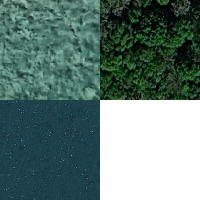
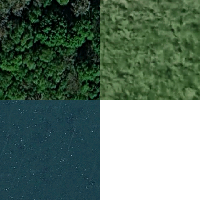
gaan we even updaten jahoor

diff --git a/WorldTiles.cs b/WorldTiles.cs
@@ -2,41 +2,60 @@ using Godot;
 using System;
 using System.Collections.Generic;
 
+public enum WorldTileType
+{
+    Forest,
+    Grass,
+    Water
+}
+
 public static class WorldTileAtlasCoords
 {
-	///
+    //
 	/// THIS CODE IS INTENTIONALLY CURSED IN ITS LAYOUT
 	/// it's a visual representation of how the atlas is ingedeeld.
 	/// 
-	public static readonly Vector2I Grass = new(0, 0);  public static readonly Vector2I Forest = new(1, 0);
-	public static readonly Vector2I Water = new(0, 1);
+    public static readonly Dictionary<WorldTileType, Vector2I> Coordinates = new()
+    {
+        { WorldTileType.Forest, new(0, 0) },         { WorldTileType.Grass,  new(1, 0) },
+        { WorldTileType.Water,  new(0, 1) }
+    };
+}
 
-	public static readonly List<Vector2I> List = new() {
-		Grass, 
-		Forest,
-		Water
-	};
+public class WorldTile {
+    public int XPos;
+    public int YPos;
+    public WorldTileType Type;
+
+    public float GetJoekelSpeedMultiplier() {
+        switch (this.Type) {
+            case Grass:
+                return 1;
+            case 
+
+        }
+    }
 }
 
 public partial class WorldTiles : TileMapLayer
 {
-	public const int WORLD_SIZE_X = 1000;
-	public const int WORLD_SIZE_Y = 1000;
+	public const int WORLD_SIZE_X = 100;
+	public const int WORLD_SIZE_Y = 100;
 
 	private const int TILE_ATLAS_TILE_SET_SOURCE_ID = 0;
-	private readonly FastNoiseLite _perlinNoiseSource = InitPerlinNoise();
+	private readonly FastNoiseLite _noiseSource = initNoiseSource();
 
+    public static Vector2 GetTileAt(Vector2 pos)
 
 	public override void _Ready()
 	{
 		for (int y = 0; y < WORLD_SIZE_Y; y++) {
 			for (int x = 0; x < WORLD_SIZE_X; x++) {
 				// get atlas coordinates based on Perlin Noise value at this tile.
-				float noise = _perlinNoiseSource.GetNoise2D(x, y);
-				float noiseNormal = (noise + 1f) / 2f;
-				int perlI = (int) (noiseNormal * (WorldTileAtlasCoords.List.Count));
-				GD.Print("noisNorm", noiseNormal, "perli is ", perlI);
-				var atlasCoords = WorldTileAtlasCoords.List[perlI];
+				float noise       = _noiseSource.GetNoise2D(x, y); /* [-1,1] */
+				float noiseNormal = (noise + 1f) / 2f;                   /* [ 0,1] */
+				int noiseI = (int) (noiseNormal * (WorldTileAtlasCoords.List.Count));
+				var atlasCoords = WorldTileAtlasCoords.Coordinates[noiseI];
 
 				this.SetCell(
 					new Vector2I(x, y),  // Grid position
@@ -46,13 +65,13 @@ public partial class WorldTiles : TileMapLayer
 				);
 			}
 		}
-	}
+	} 
 
-	private static FastNoiseLite InitPerlinNoise() {
+	private static FastNoiseLite initNoiseSource() {
 		var n = new FastNoiseLite();
 
-		n.NoiseType = FastNoiseLite.NoiseTypeEnum.Perlin;
-		n.Frequency = 0.1f;
+		n.NoiseType = FastNoiseLite.NoiseTypeEnum.SimplexSmooth;
+		n.Frequency = 0.05f;
 		n.Seed = (int)GD.Randi();
 
 		return n;

diff --git a/Joekel.cs b/Joekel.cs
@@ -12,6 +12,7 @@ public partial class Joekel : CharacterBody2D
 	private float _heading;
 	private float _kachow;
 	private float _hunger;
+	private float _zwem;
 	private float _turnJitter;
 	
 	public Dna Dna;
@@ -34,7 +35,7 @@ public partial class Joekel : CharacterBody2D
 		float dt = (float)delta;
 		_heading += (float)GD.RandRange(-_turnJitter, _turnJitter) * dt;
 
-		Velocity = Vector2.FromAngle(_heading) * _kachow * (HungerMax + HungerMin - _hunger) / HungerMax;
+		Velocity = GetVelocityVector();
 		MoveAndSlide();
 
 		for (int i = 0; i < GetSlideCollisionCount(); i++)
@@ -67,6 +68,14 @@ public partial class Joekel : CharacterBody2D
 		DrawCircle(Vector2.Zero, 10, _kleuren_bandjes[0]);
 		DrawCircle(Vector2.Zero, 7, _kleuren_bandjes[1]);
 		DrawCircle(Vector2.Zero, 4, _kleuren_bandjes[2]);
+	}
+
+	private Vector2 GetVelocityVector() {
+		var result = Vector2.FromAngle(_heading) 				// unit vector 
+		result *= _kachow 										// joekel speed multiplier
+		result *= (HungerMax + HungerMin - _hunger) / HungerMax // hunger discount
+		result *= WorldTiles.GetTileAt(this.GlobalPosition);  // discount from the tile the joekel is on
+		return result 
 	}
 	
 	private void CalculateHunger(double delta)
@@ -101,9 +110,6 @@ public partial class Joekel : CharacterBody2D
 	private void Reproduce(){
 		if (!IsNodeReady() || Dna == null)
 			return;
-		GD.Print("parent world", ((World) GetParent()));
-		GD.Print("dna", Dna);
-		GD.Print();
 		((World) GetParent()).SpawnJoekel(Position, Dna.Noisified());
 	}
 }

diff --git a/Camera.cs b/Camera.cs
@@ -13,8 +13,7 @@ public partial class Camera : Camera2D
 		}
 		
 	public override void _UnhandledInput(InputEvent e)
-		{	
-			GD.Print(e.AsText());
+		{
 			if (e is InputEventMouseMotion m && (m.ButtonMask & MouseButtonMask.Left) != 0)
 				Position -= m.Relative / Zoom;
 			else if (e is InputEventMouseButton b && b.Pressed && b.ButtonIndex == MouseButton.WheelUp)

diff --git a/genetica/Karaktereigenschappen.cs b/genetica/Karaktereigenschappen.cs
@@ -8,4 +8,6 @@ public static class Karaktereigenschappen
 
 	// turn jitter is een some van de tweede rij * 2
 	public static readonly Karaktereigenschap TurnJitter = new("TurnJitter", d => d.Row(1) * 2);
+
+	public static readonly Karaktereigenschap Zwem = new("Zwem", d => Relu(d))
 }
